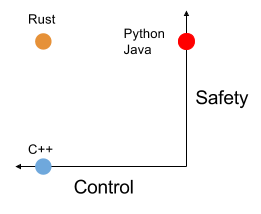
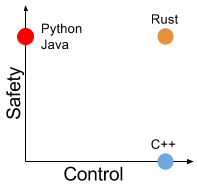
Additional grammar fixes and image fix

diff --git a/content.md b/content.md
@@ -9,20 +9,20 @@ class: center, middle
 # What is Rust?
  - **Project sponsored by Mozilla**
     - Started in 2006 by Graydon Hoare
-    - Sponsored  by Mozilla in 2009
+    - Sponsored by Mozilla in 2009
     - Went 1.0 in May 2015
  - **'Systems Programming Language that runs blazingly fast, prevents segfaults and guarantees thread safety.'**
-    - Compiled language using LLVM
-    - No garbage collector -> no runtime overhead
+    - Compiled language that uses LLVM
     - On-par performance with C/C++
+    - No garbage collector, no runtime overhead
     - Provides memory safety & elimates data races
-    - Most Loved Programming Language - Stack Overflow Developer Survey 2016
  - **There are several companies using Rust in production**
     - [Dropbox - Magic Pocket](http://www.wired.com/2016/03/epic-story-dropboxs-exodus-amazon-cloud-empire/)
     - [Chef - Habitat](https://github.com/habitat-sh/habitat)
     - Mozilla - Servo
 
 ???
+- LLVM is a library that is used to construct, optimize and produce intermediate and/or binary machine code
 - Systems programming language doesn't really have a specific definition but I think people generally say that it can
 be used in applications to replace C/C++
 ---
@@ -90,7 +90,7 @@ to optimize how little memory they needed to manage 1GB (or 1PB) of data.
 # What is safety? (C++)
 ```c++
 void a_function() {
-  // Vector with one element, with reduced capacity of 1
+  // Vector with one element, with some capcity
   std::vector<string> vec;
   .....
 
@@ -140,21 +140,17 @@ Rust compiler ensures that both aliasing and mutation **cannot** happen at the s
 * Memory safety
 * Data-race freedom
 
-**This solution is all done at compile-time**
+**This solution is done at compile-time**
 
 ???
 I want to reiterate that rust checks for memory safety at **compile-time**, no static analysis tool.
 If there is a memory safety issue with your program, it will be captured at compile-time
 ---
 # Other language features
-* Statically typed, with type inference
-* Nothing is null/nil
-* Can't declare an uninitialized variable
-* Result and Option types
-* Data is immutable by default and you have to explicitly declare data as mutable
 * Pattern matching
 * Traits
 * Metaprogramming 
+* Package Manager
 
 ???
 Before we get into ownership and borrowing, Rust is a modern programming language and provides all these features.
@@ -349,7 +345,7 @@ Rust supports many different paradigms for concurrent application
 
 How does ownership and borrowing help solve issues with multithreaded programs?
 ???
-Going to show two
+- C++ the compiler were not really trying to help me to write correct programs when it comes to concurrency 
 ---
 # Data Races
 
@@ -373,8 +369,8 @@ Two unsynchronized threads access that access the same data where **at least one
 - We can check for data races **AT COMPILE TIME**
 ---
 ## Message Passing 
-* This is equivalent to the ownership semantics of moving ownership from one variable to another.
-* Instead, we are moving ownership of the data from the one thread to another thread.
+* Instead, we are moving ownership of the data from the one thread to another thread. 
+Before we were moving ownership of data from one variable binding to another.
 
 ```rust
 use std::sync::mpsc::channel;
@@ -397,7 +393,7 @@ fn main() {
 ```
 
 ???
-The great thing here is that we get this check at compile time
+* The great thing here is that we get this check at compile time
 ---
 ## Locked Mutable access (shared state)
 **C++**
@@ -429,12 +425,14 @@ fn add(mutex: &Mutex<i32>) {        //<--+ Mutex borrow starts here
 ???
 * If we take a look at the C++ example, we will notice that the mutex is a data struture separate from the data it is protecting (pthread_mutex_t)
 And we have to explicitly surround the critical section (part of the program that requires mutual exclusion of access) with _lock and _unlock
-* This is different from how Rust's mutexes are defined differently, in that the ownership of the data (integer in this case) has been moved into the mutex.
+* This is different from how Rust's mutexes are defined differently, in that the ownership of the data (integer in this case) has been moved into the mutex.  The lock OWNS the data it is protecting.
    * When you call the lock function on the mutex, you get the mutable reference to the data back. 
    * This enforces the fact that the only way to mutate the data, is to lock the mutex as opposed to the C++ example
    * The #1 benefit here is that the compiler enforces correct lock based programming, no way to accidently mutate the data between threads when you didn't mean to.
-
-```
+---
+# Questions?
+???
+Unsafe rust is definetely a thing.
 ---
 # Sources
 * http://www.slideshare.net/nikomatsakis/guaranteeing-memory-safety-in-rust-39042975
